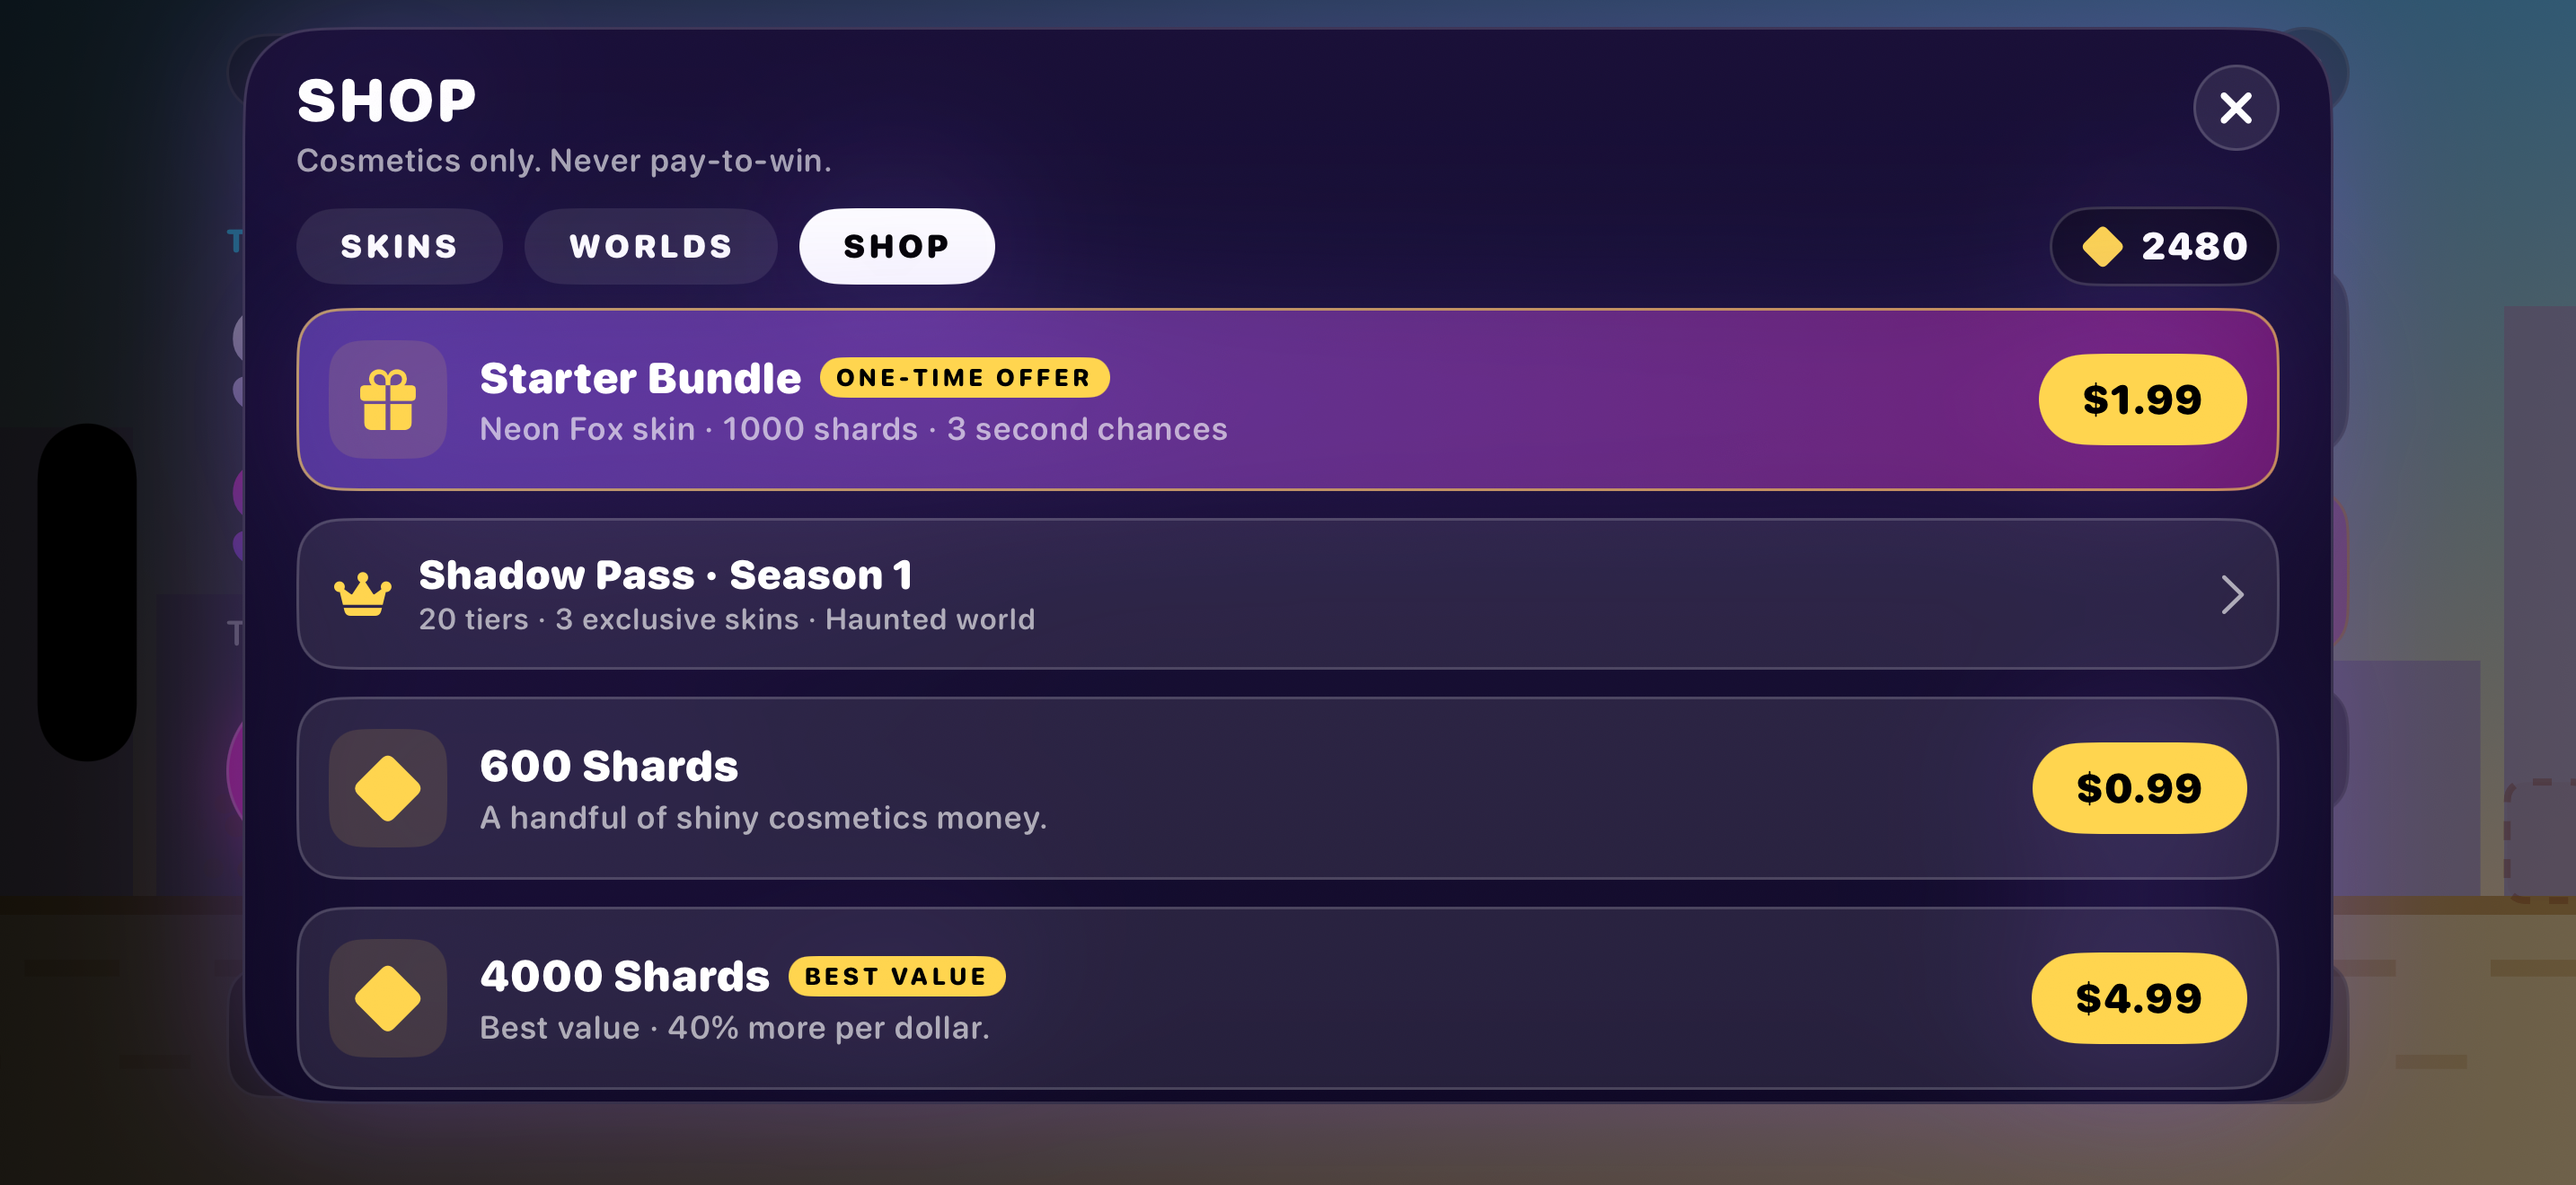
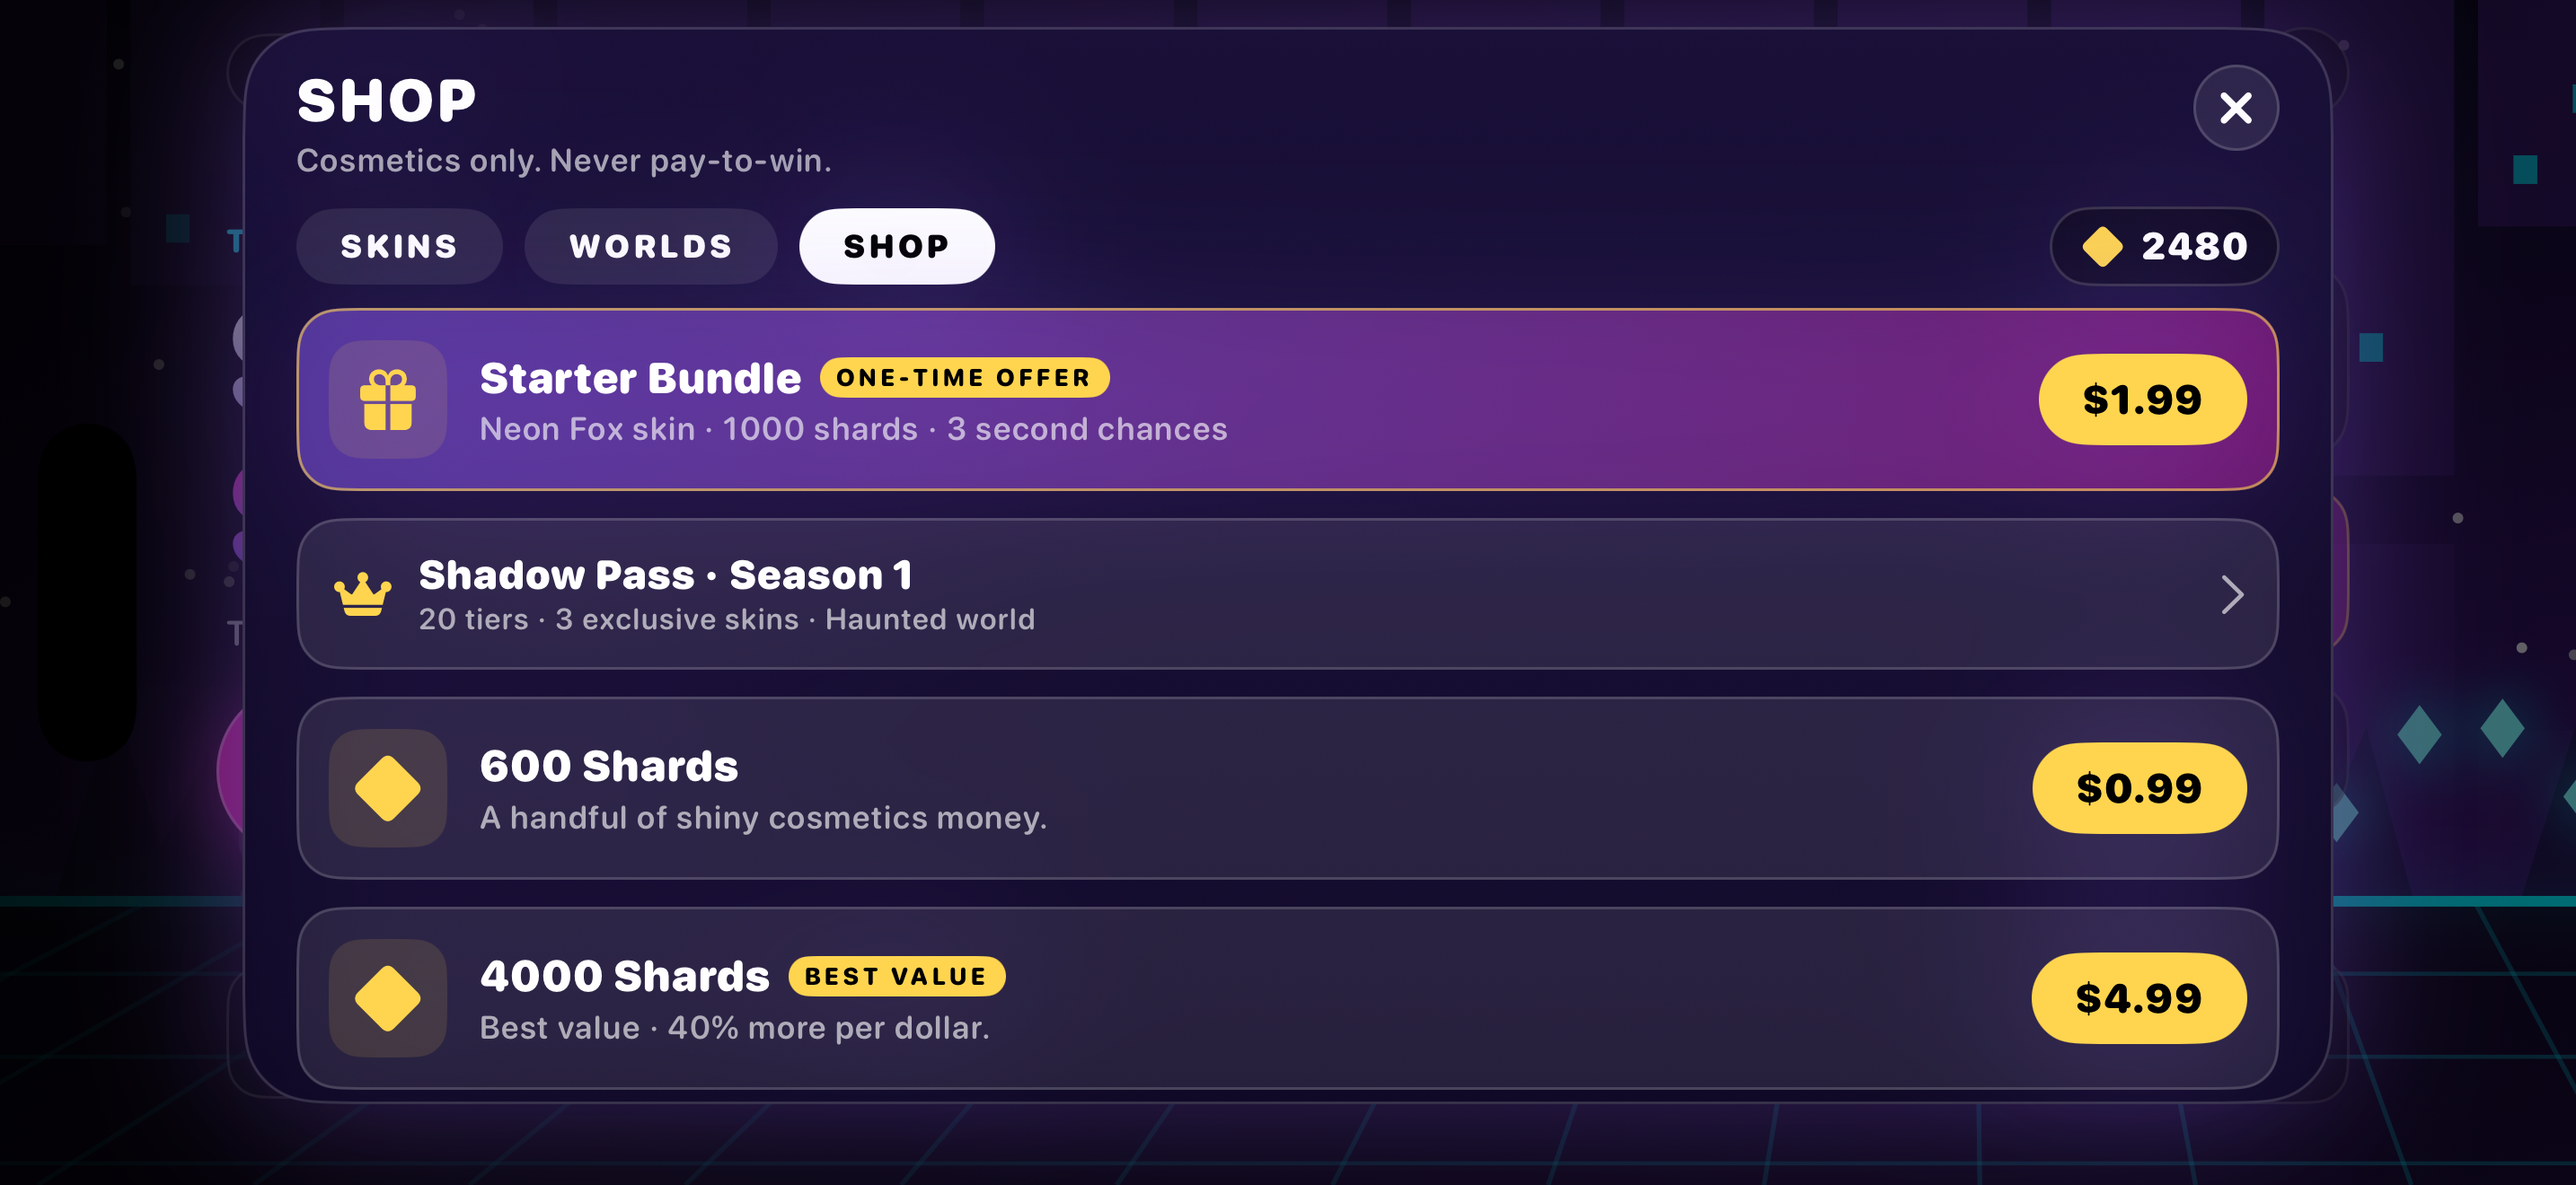
Fix canvas redraw, faster world reveal, store screenshots, build 2

Changed region(s): [[0.0, 0.0, 1.0, 1.0], [0.0621, 0.6212, 0.0931, 0.6833], [0.031, 0.0, 0.0621, 0.0621]]

diff --git a/ShadowSwitch/Sources/GameScreens.swift b/ShadowSwitch/Sources/GameScreens.swift
@@ -15,8 +15,10 @@ struct GameCanvasView: View {
     var body: some View {
         let paused = session.screen == .paused
         TimelineView(.animation(minimumInterval: nil, paused: paused)) { tl in
-            let _ = session.engine.advance(to: tl.date.timeIntervalSinceReferenceDate)
+            let now = tl.date.timeIntervalSinceReferenceDate
+            let _ = session.engine.advance(to: now)
             Canvas(rendersAsynchronously: false) { ctx, size in
+                _ = now   // capture the frame time so SwiftUI re-runs the closure every frame
                 Renderer.draw(ctx, size: size, e: session.engine, theme: progress.theme, skin: progress.skin,
                               reduceFX: progress.d.reduceFX || reduceMotion)
             }
@@ -48,7 +50,7 @@ struct HUDView: View {
                         VStack(spacing: 0) {
                             Text("\(e.score)").font(UI.title(44)).foregroundStyle(.white).monospacedDigit()
                                 .shadow(color: .black.opacity(0.4), radius: 4, y: 2)
-                            Text("BEST \(max(progress.d.best, e.score))").font(UI.body(11, .heavy)).tracking(1.5)
+                            Text("BEST \(max(progress.d.best, e.score))").font(UI.body(11, .heavy)).tracking(1.5).shadow(color: .black.opacity(0.45), radius: 3, y: 1)
                                 .foregroundStyle(.white.opacity(0.75))
                         }
                         Spacer()

diff --git a/ShadowSwitch/Sources/GameEngine.swift b/ShadowSwitch/Sources/GameEngine.swift
@@ -66,6 +66,7 @@ final class GameEngine {
     var world: World = .real
     var prevWorld: World = .real
     var reveal: CGFloat = 1
+    var revealDuration: CGFloat = 0.3
     var lastSwitchT: CGFloat = -10
     var squash: CGFloat = 0
     var invuln: CGFloat = 0
@@ -198,7 +199,7 @@ final class GameEngine {
         speed += (target - speed) * min(1, dt * 3)
         scroll += speed * dt
 
-        if reveal < 1 { reveal = min(1, reveal + dt / 0.45) }
+        if reveal < 1 { reveal = min(1, reveal + dt / revealDuration) }
         squash = max(0, squash - dt * 5)
         invuln = max(0, invuln - dt)
         shake = max(0, shake - dt * 2.5)

diff --git a/ShadowSwitch/Sources/Demo.swift b/ShadowSwitch/Sources/Demo.swift
@@ -32,7 +32,7 @@ enum Demo {
             var c = RunConfig()
             c.seed = 4242; c.autopilot = true; c.invincible = true; c.forceEvent = event; c.modifier = modifier
             session.engine.start(c)
-            session.engine.onDeath = nil
+            session.engine.onDeath = nil; session.engine.revealDuration = 0.01
             if shadowStart { _ = session.engine.switchWorld() }
             session.screen = .playing
         }

diff --git a/tools/make_store_shots.py b/tools/make_store_shots.py
@@ -1,0 +1,50 @@
+#!/usr/bin/env python3
+"""Composes App Store screenshots (2868x1320, iPhone 6.9" landscape) from raw simulator captures."""
+from PIL import Image, ImageDraw, ImageFont, ImageFilter
+import os
+ROOT = os.path.join(os.path.dirname(__file__), "..", "marketing")
+W, H = 2868, 1320
+SHOTS = [
+    ("play-real-shadow", "ONE TAP. ", "TWO WORLDS."),
+    ("play-talk", "THE LONGER YOU LIVE, ", "THE WEIRDER IT GETS"),
+    ("play-lava-shadow", "THE FLOOR IS ", "LAVA. SOMETIMES."),
+    ("play-upside", "GRAVITY ", "QUIT MID-RUN"),
+    ("daily", "A NEW TWIST ", "EVERY DAY"),
+    ("dead", "SHARE YOUR ", "WEIRDEST DEATH"),
+    ("skins", "COLLECT ", "WILD SKINS"),
+    ("pass", "UNLOCK THE ", "SHADOW PASS"),
+]
+def font(size):
+    f = ImageFont.truetype("/System/Library/Fonts/SFCompactRounded.ttf", size)
+    try: f.set_variation_by_name("Black")
+    except Exception:
+        try: f.set_variation_by_name("Heavy")
+        except Exception: pass
+    return f
+os.makedirs(os.path.join(ROOT, "store"), exist_ok=True)
+for i, (raw, a, b) in enumerate(SHOTS, 1):
+    bg = Image.new("RGB", (W, H), (11, 7, 32))
+    px = bg.load()
+    g = ImageDraw.Draw(bg)
+    for y in range(H):
+        t = y / H
+        g.line([(0, y), (W, y)], fill=(int(24 + 40 * (1 - t)), int(10 + 8 * (1 - t)), int(60 + 70 * (1 - t))))
+    shot = Image.open(os.path.join(ROOT, "raw", raw + ".png")).convert("RGB")
+    tw = 2290; th = int(tw * shot.height / shot.width)
+    shot = shot.resize((tw, th), Image.LANCZOS)
+    mask = Image.new("L", shot.size, 0)
+    ImageDraw.Draw(mask).rounded_rectangle([0, 0, tw, th], radius=80, fill=255)
+    x, y = (W - tw) // 2, H - th - 40
+    glow = Image.new("RGBA", (W, H), (0, 0, 0, 0))
+    ImageDraw.Draw(glow).rounded_rectangle([x - 6, y - 6, x + tw + 6, y + th + 6], radius=86, fill=(139, 92, 246, 200))
+    bg.paste(Image.alpha_composite(bg.convert("RGBA"), glow.filter(ImageFilter.GaussianBlur(30))).convert("RGB"))
+    bg.paste(shot, (x, y), mask)
+    d = ImageDraw.Draw(bg)
+    f = font(112)
+    wa = d.textlength(a, font=f); wb = d.textlength(b, font=f)
+    sx = (W - (wa + wb)) / 2
+    d.text((sx, 52), a, font=f, fill=(255, 255, 255))
+    d.text((sx + wa, 52), b, font=f, fill=(34, 211, 238) if i % 2 else (255, 74, 220))
+    out = os.path.join(ROOT, "store", f"{i:02d}_{raw}.png")
+    bg.save(out)
+    print(out)
